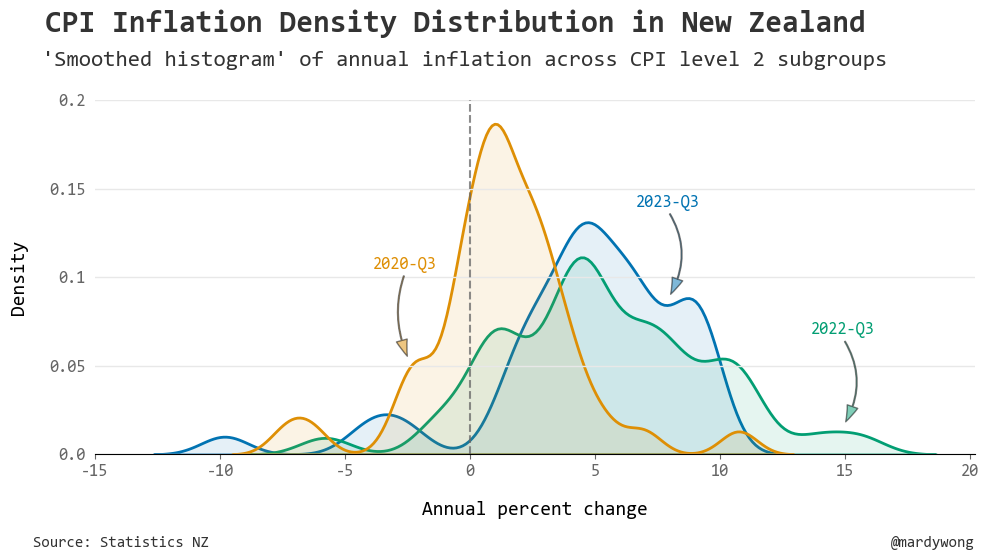
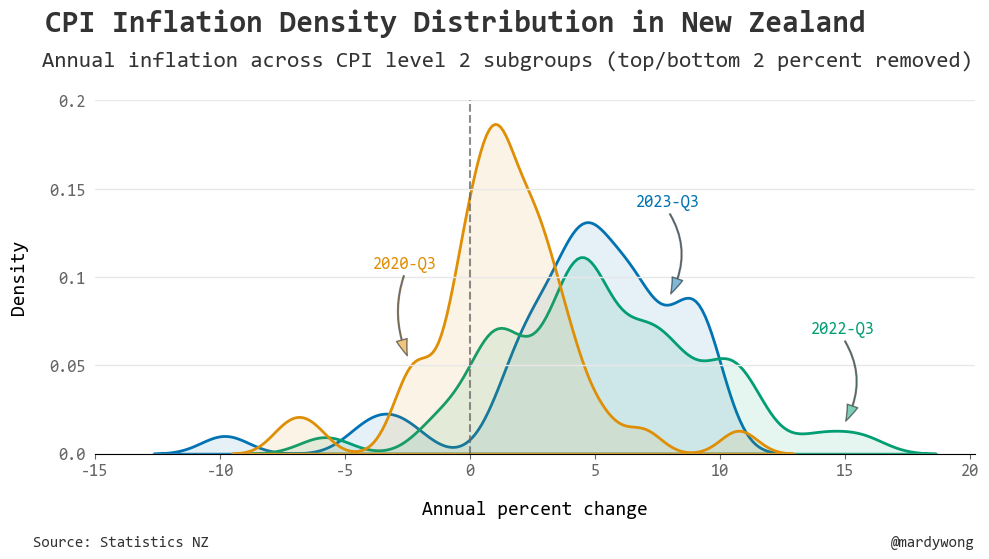
Update plot for title

diff --git a/cpi_inflation_distribution/src/visualization/003_visualize.py b/cpi_inflation_distribution/src/visualization/003_visualize.py
@@ -188,7 +188,7 @@ fig.suptitle(
 
 # Add subtitle
 ax.set_title(
-    "'Smoothed histogram' of annual inflation across CPI level 2 subgroups",
+    "Annual inflation across CPI level 2 subgroups (top/bottom 2 percent removed)",
     loc="left",
     fontsize=16,
     x=-0.06,
